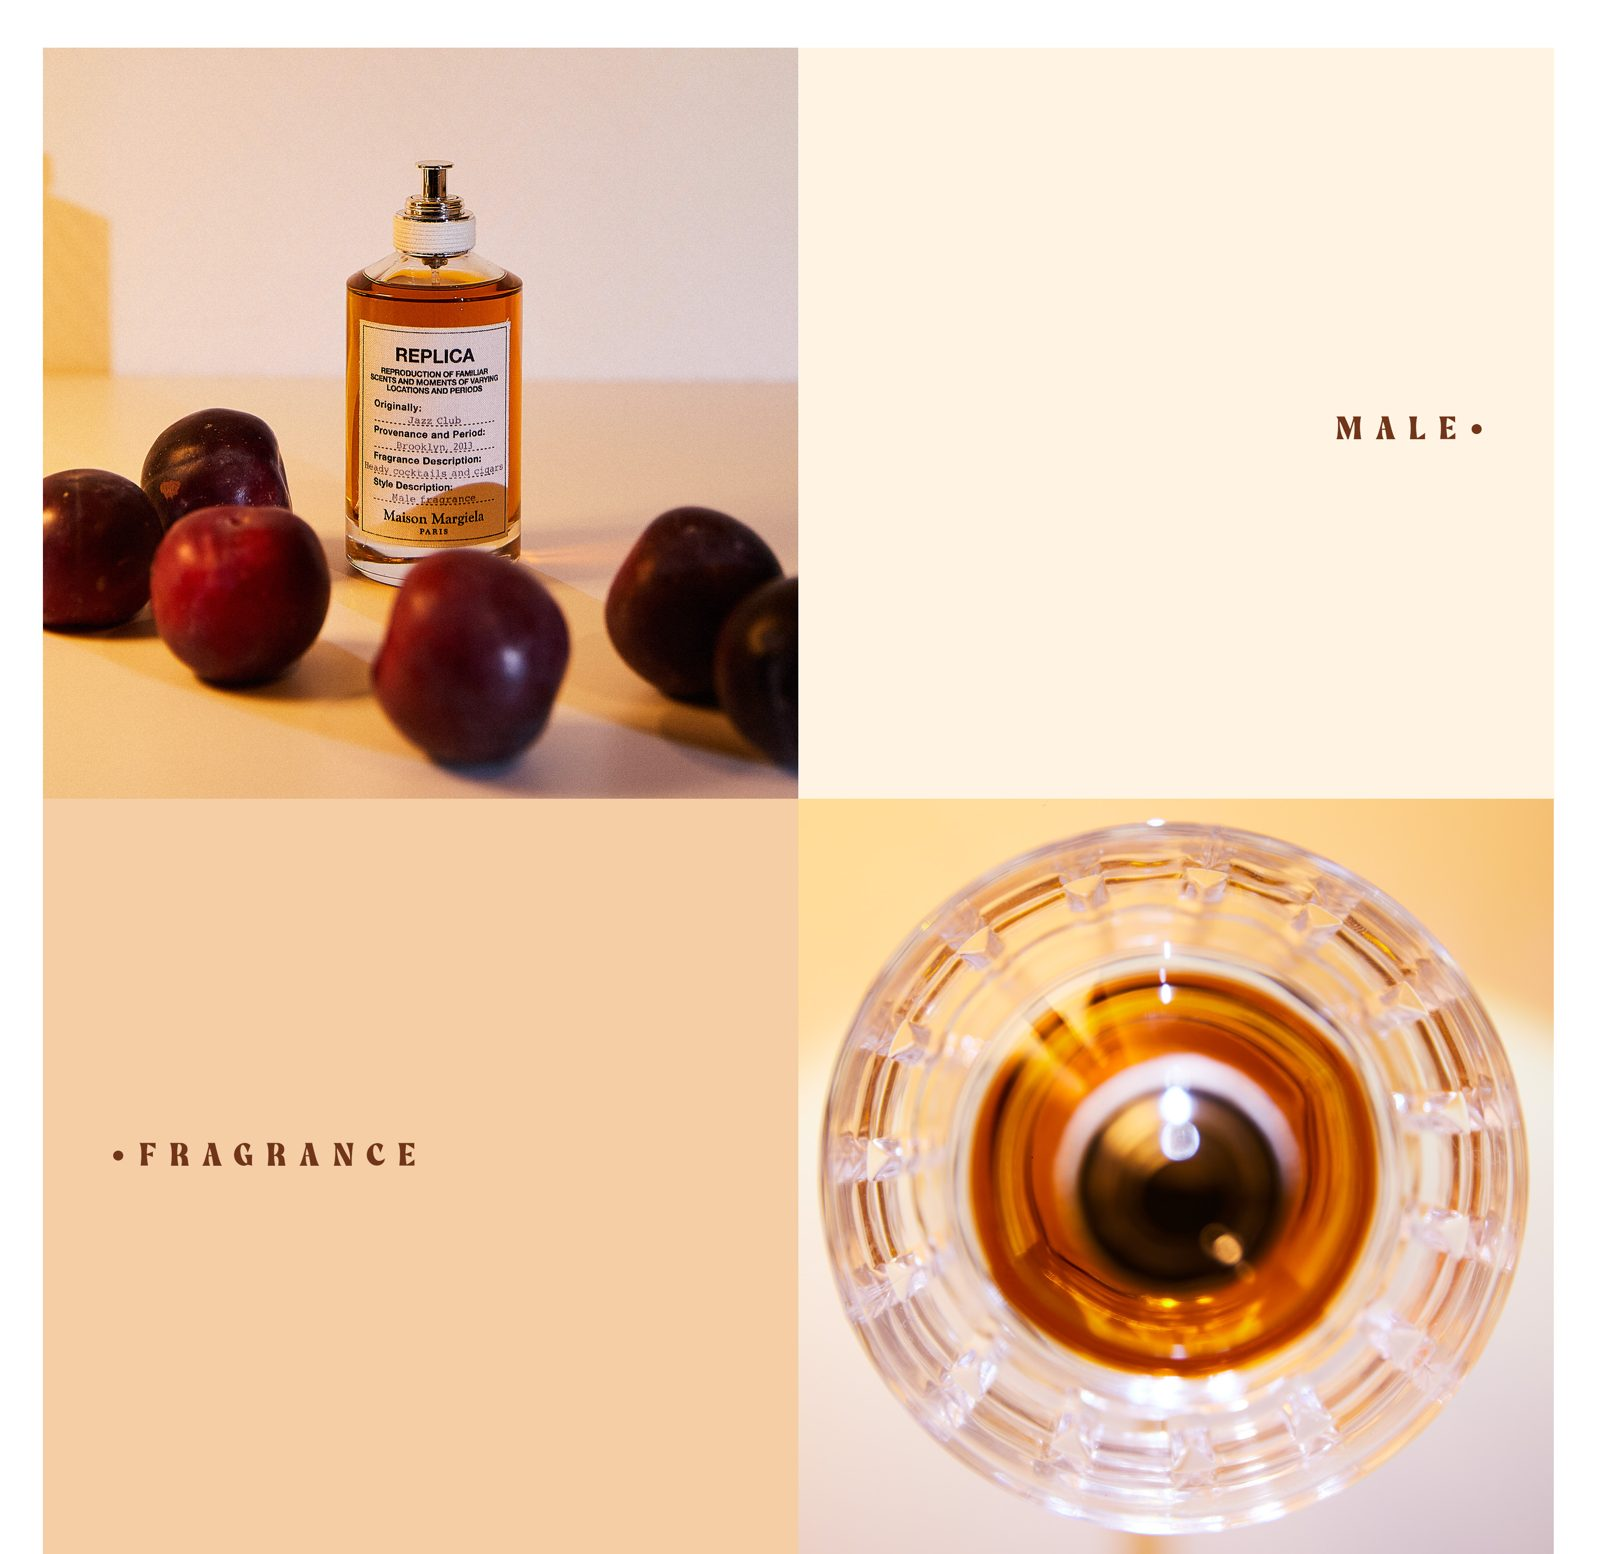
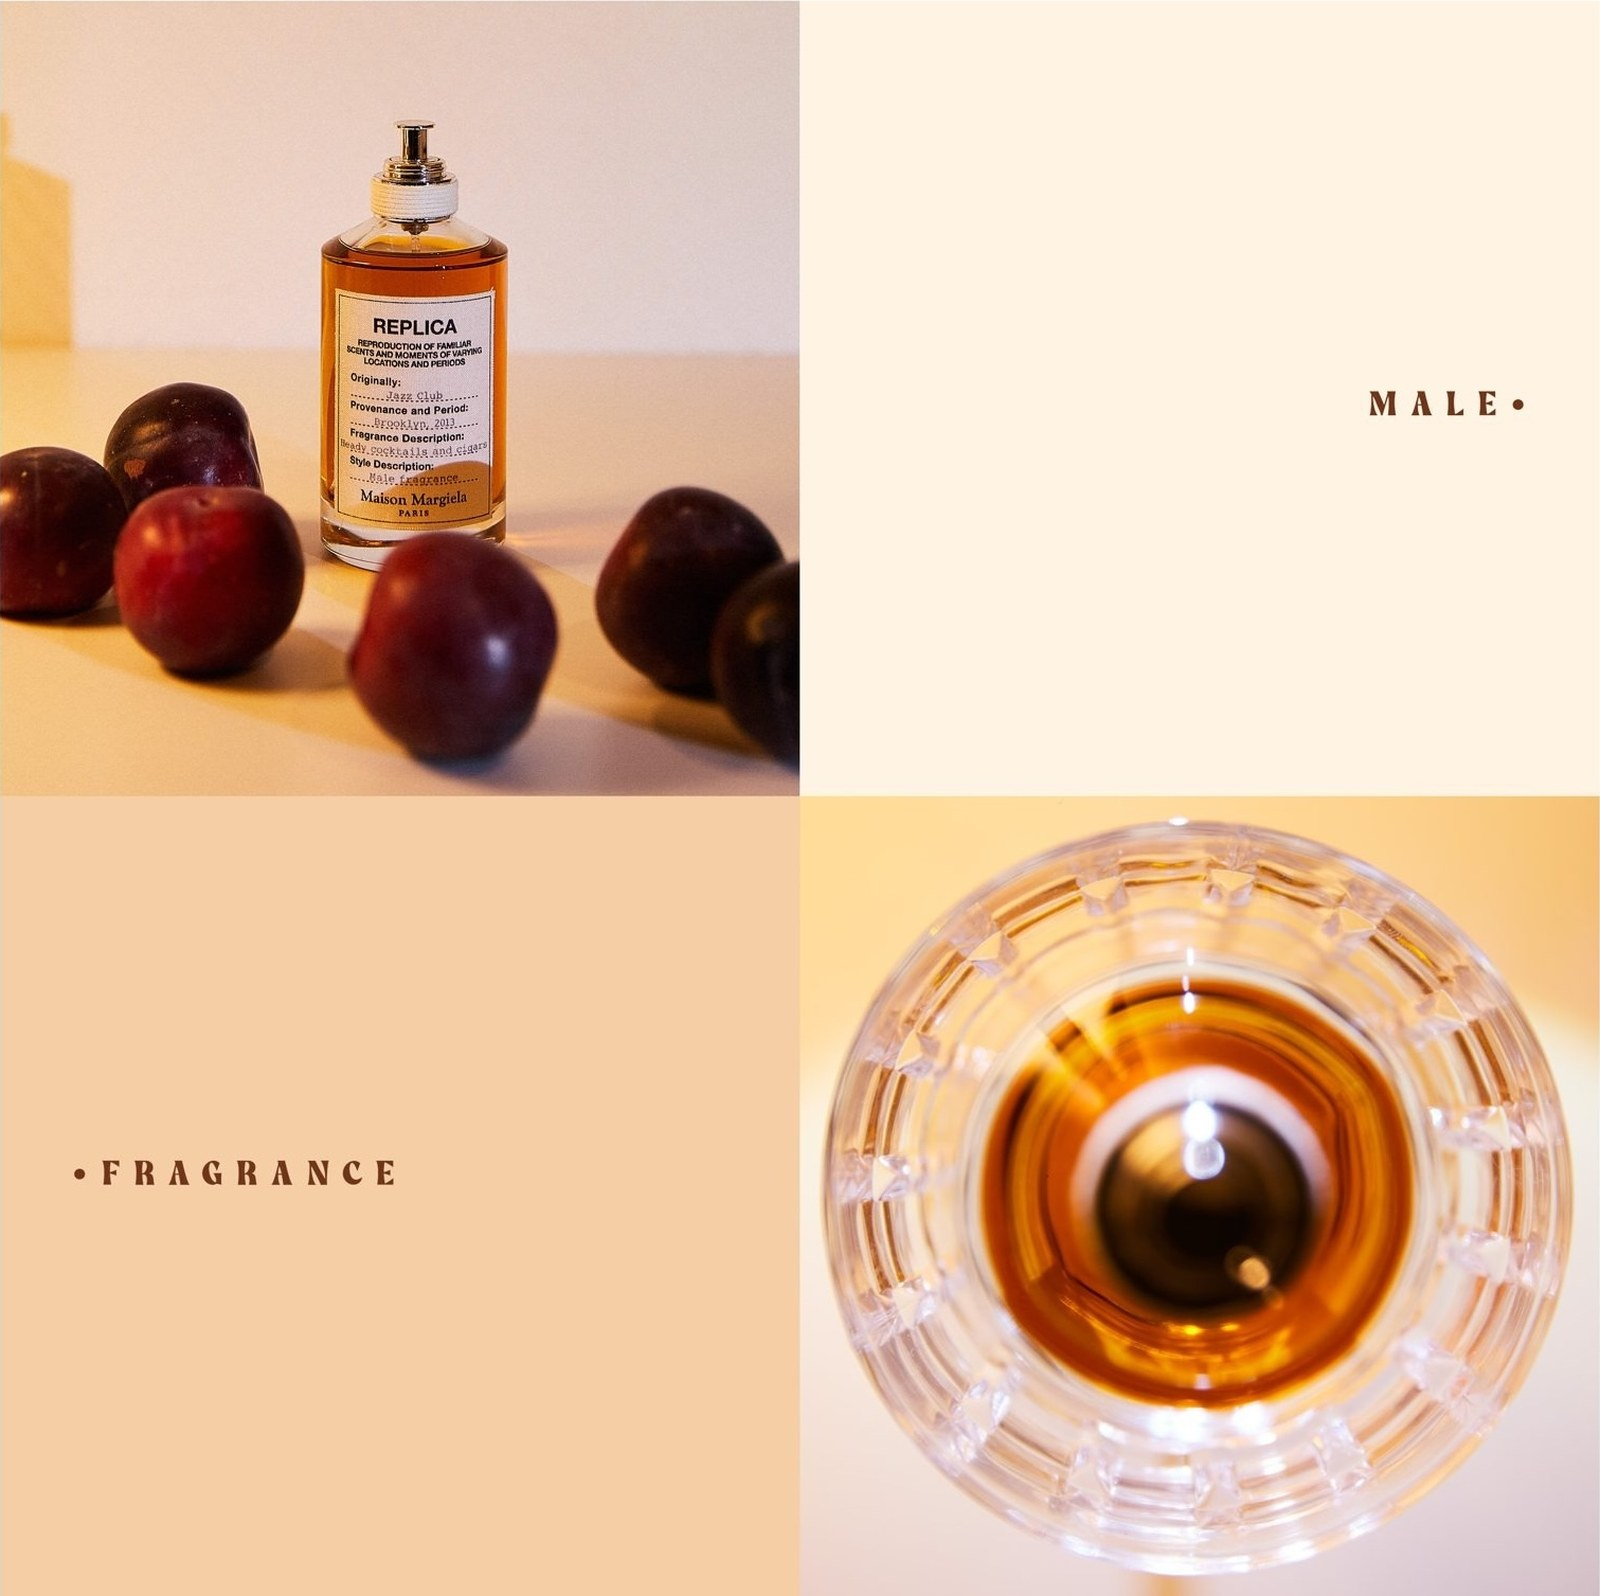
Studio : nouveau montage MALE/FRAGRANCE en 1:1 (source + versions optimisées)

Changed region(s): [[0.0, 0.0, 1.0, 1.0], [0.0625, 0.7104, 0.25, 0.7722], [0.8438, 0.2471, 0.9375, 0.278]]

diff --git a/studio.html b/studio.html
@@ -1,5 +1,5 @@
 <!DOCTYPE html>
-<html lang="fr" data-build="20260827-1320">
+<html lang="fr" data-build="20260827-1345">
 <head>
 <meta charset="utf-8">
 <meta http-equiv="Cache-Control" content="no-cache, no-store, must-revalidate">
@@ -39,7 +39,7 @@
       <figure class="item" style="left:0.00%;top:0.000%;width:54.50%;aspect-ratio:775/1170"><img src="media/st_2.jpg" alt="" loading="lazy"></figure>
       <figure class="item" style="left:0.00%;top:8.677%;width:54.50%;aspect-ratio:775/1020"><img src="media/st_2G3A8914.jpg" alt="" loading="lazy"></figure>
       <figure class="item" style="left:0.00%;top:16.258%;width:54.57%;aspect-ratio:776/490"><img src="media/st_plums.jpg" alt="" loading="lazy"></figure>
-      <figure class="item" style="left:0.00%;top:19.872%;width:54.50%;aspect-ratio:775/753"><img src="media/st_4.jpg" alt="" loading="lazy"></figure>
+      <figure class="item" style="left:0.00%;top:19.872%;width:54.50%;aspect-ratio:775/773"><img src="media/st_4.jpg" alt="" loading="lazy"></figure>
       <figure class="item" style="left:0.00%;top:25.743%;width:54.50%;aspect-ratio:775/1021"><img src="media/st_8.jpg" alt="" loading="lazy"></figure>
       <figure class="item" style="left:0.00%;top:33.446%;width:54.36%;aspect-ratio:773/1158"><img src="media/st_BK3A9473.jpg" alt="" loading="lazy"></figure>
       <figure class="item" style="left:0.00%;top:42.080%;width:54.50%;aspect-ratio:775/1161"><img src="media/st_BK3A9519.jpg" alt="" loading="lazy"></figure>

diff --git a/about.html b/about.html
@@ -1,5 +1,5 @@
 <!DOCTYPE html>
-<html lang="fr" data-build="20260827-1320">
+<html lang="fr" data-build="20260827-1345">
 <head>
 <meta charset="utf-8">
 <meta http-equiv="Cache-Control" content="no-cache, no-store, must-revalidate">

diff --git a/communication.html b/communication.html
@@ -1,5 +1,5 @@
 <!DOCTYPE html>
-<html lang="fr" data-build="20260827-1320">
+<html lang="fr" data-build="20260827-1345">
 <head>
 <meta charset="utf-8">
 <meta http-equiv="Cache-Control" content="no-cache, no-store, must-revalidate">

diff --git a/evenementiel.html b/evenementiel.html
@@ -1,5 +1,5 @@
 <!DOCTYPE html>
-<html lang="fr" data-build="20260827-1320">
+<html lang="fr" data-build="20260827-1345">
 <head>
 <meta charset="utf-8">
 <meta http-equiv="Cache-Control" content="no-cache, no-store, must-revalidate">

diff --git a/fashion.html b/fashion.html
@@ -1,5 +1,5 @@
 <!DOCTYPE html>
-<html lang="fr" data-build="20260827-1320">
+<html lang="fr" data-build="20260827-1345">
 <head>
 <meta charset="utf-8">
 <meta http-equiv="Cache-Control" content="no-cache, no-store, must-revalidate">

diff --git a/food.html b/food.html
@@ -1,5 +1,5 @@
 <!DOCTYPE html>
-<html lang="fr" data-build="20260827-1320">
+<html lang="fr" data-build="20260827-1345">
 <head>
 <meta charset="utf-8">
 <meta http-equiv="Cache-Control" content="no-cache, no-store, must-revalidate">

diff --git a/index.html b/index.html
@@ -1,5 +1,5 @@
 <!DOCTYPE html>
-<html lang="fr" data-build="20260827-1320">
+<html lang="fr" data-build="20260827-1345">
 <head>
 <meta charset="utf-8">
 <meta http-equiv="Cache-Control" content="no-cache, no-store, must-revalidate">

diff --git a/motion.html b/motion.html
@@ -1,5 +1,5 @@
 <!DOCTYPE html>
-<html lang="fr" data-build="20260827-1320">
+<html lang="fr" data-build="20260827-1345">
 <head>
 <meta charset="utf-8">
 <meta http-equiv="Cache-Control" content="no-cache, no-store, must-revalidate">

diff --git a/reseaux.html b/reseaux.html
@@ -1,5 +1,5 @@
 <!DOCTYPE html>
-<html lang="fr" data-build="20260827-1320">
+<html lang="fr" data-build="20260827-1345">
 <head>
 <meta charset="utf-8">
 <meta http-equiv="Cache-Control" content="no-cache, no-store, must-revalidate">

diff --git a/showreel.html b/showreel.html
@@ -1,5 +1,5 @@
 <!DOCTYPE html>
-<html lang="fr" data-build="20260827-1320">
+<html lang="fr" data-build="20260827-1345">
 <head>
 <meta charset="utf-8">
 <meta http-equiv="Cache-Control" content="no-cache, no-store, must-revalidate">

diff --git a/sport.html b/sport.html
@@ -1,5 +1,5 @@
 <!DOCTYPE html>
-<html lang="fr" data-build="20260827-1320">
+<html lang="fr" data-build="20260827-1345">
 <head>
 <meta charset="utf-8">
 <meta http-equiv="Cache-Control" content="no-cache, no-store, must-revalidate">
